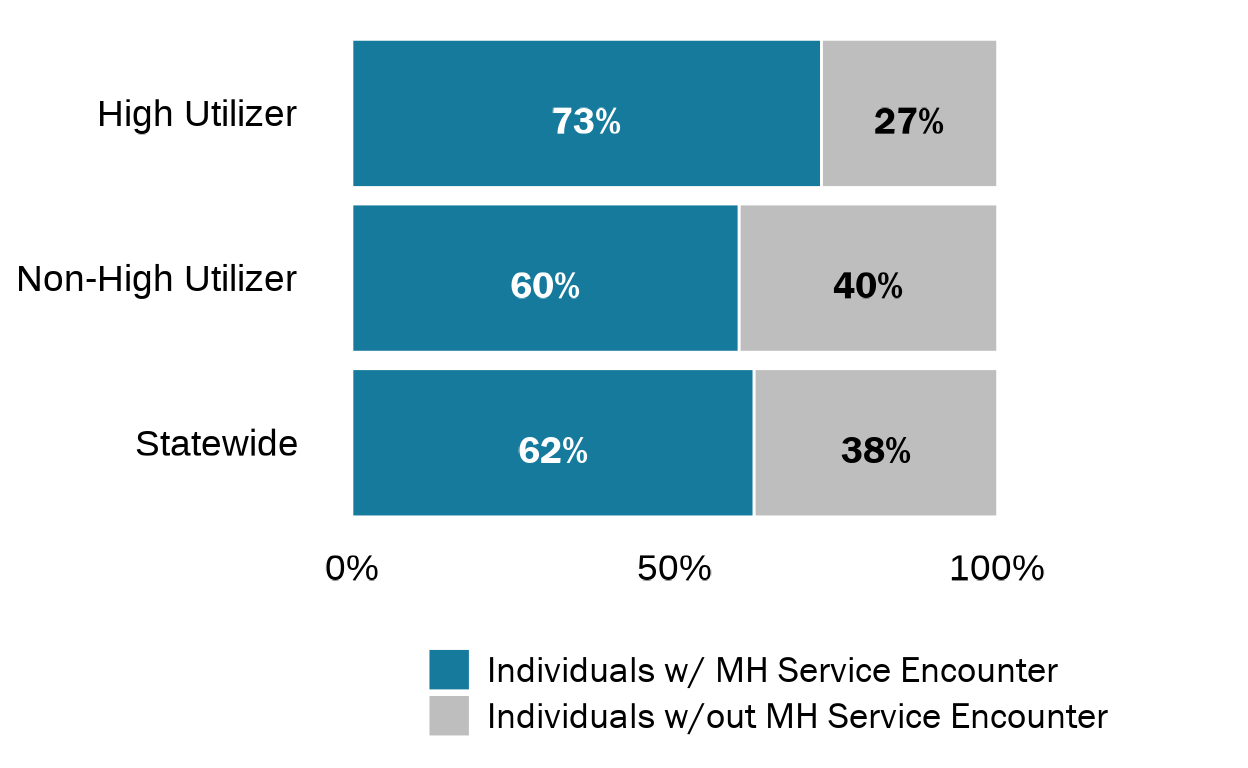
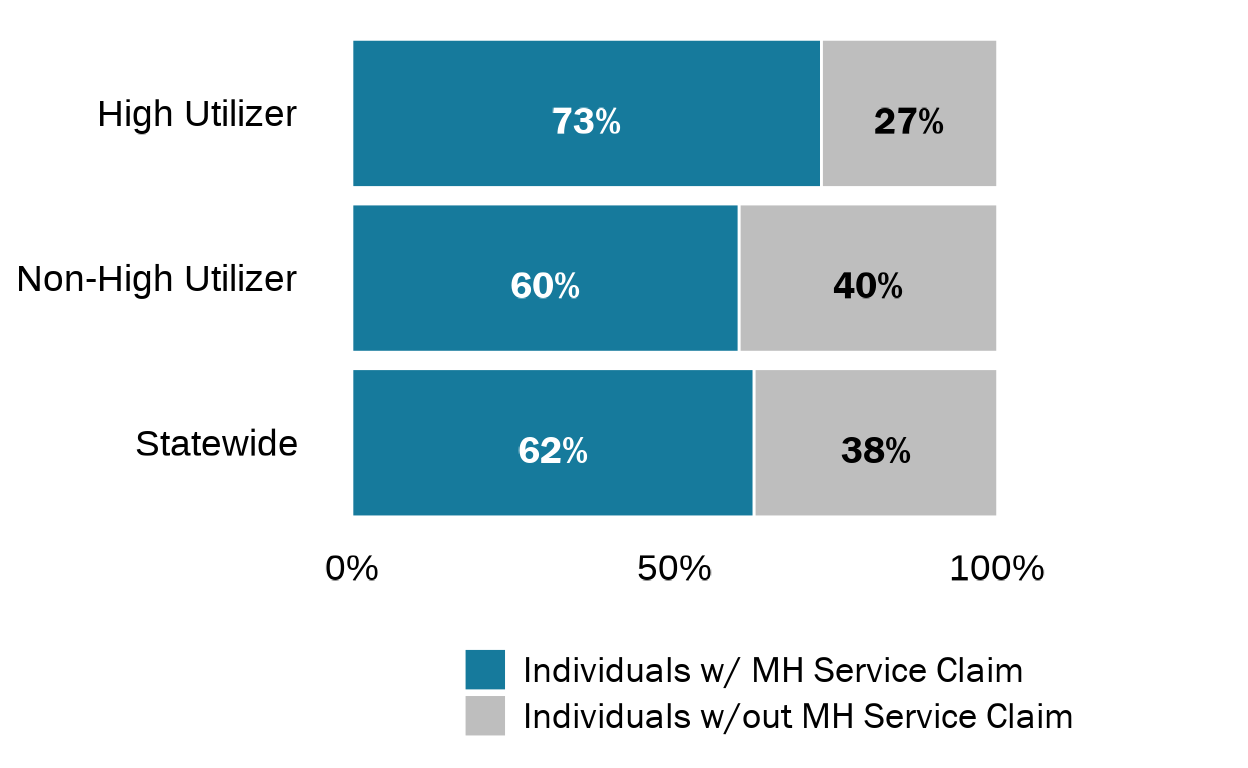
update comments and change wording from encounters to claims

Changed region(s): [[0.3438, 0.8438, 0.875, 0.9688]]

diff --git a/_site/nh_medicaid_bh_encounters_mh_sud.html b/_site/nh_medicaid_bh_encounters_mh_sud.html
@@ -2716,12 +2716,12 @@ Statewide
 </div>
 </div>
 <p><br></p>
-<p><strong>Mental Health Encounters</strong></p>
+<p><strong>Mental Health Claims</strong></p>
 <div class="layout-chunk" data-layout="l-body">
 <p><img src="nh_medicaid_bh_encounters_mh_sud_files/figure-html5/unnamed-chunk-3-1.png" width="624" /></p>
 </div>
 <p><br></p>
-<p><strong>Substance Use Disorder Encounters</strong></p>
+<p><strong>Substance Use Disorder Claims</strong></p>
 <div class="layout-chunk" data-layout="l-body">
 <p><img src="nh_medicaid_bh_encounters_mh_sud_files/figure-html5/unnamed-chunk-4-1.png" width="624" /></p>
 </div>
@@ -3420,10 +3420,16 @@ Statewide
 <div class="layout-chunk" data-layout="l-body">
 <p><img src="nh_medicaid_bh_encounters_mh_sud_files/figure-html5/unnamed-chunk-28-1.png" width="624" /></p>
 </div>
+<div class="layout-chunk" data-layout="l-body">
+<p><img src="nh_medicaid_bh_encounters_mh_sud_files/figure-html5/unnamed-chunk-29-1.png" width="624" /></p>
+</div>
 <p><br><br></p>
 <h3 id="primary-diagnosis-for-alcohol-related-disorders-medicaid-claims-between-fy2019-2021.">Primary diagnosis for “alcohol-related disorders” Medicaid claims between FY2019-2021.</h3>
 <div class="layout-chunk" data-layout="l-body">
-<p><img src="nh_medicaid_bh_encounters_mh_sud_files/figure-html5/unnamed-chunk-29-1.png" width="624" /></p>
+<p><img src="nh_medicaid_bh_encounters_mh_sud_files/figure-html5/unnamed-chunk-30-1.png" width="624" /></p>
+</div>
+<div class="layout-chunk" data-layout="l-body">
+<p><img src="nh_medicaid_bh_encounters_mh_sud_files/figure-html5/unnamed-chunk-31-1.png" width="624" /></p>
 </div>
 <p><br><br></p>
 <p><strong>See full notes and business rules for variable creation in data dictionary for individual-level analytic file here: <a href="https://csgorg.sharepoint.com/:x:/s/Team-JC-Research/EUJfEABIuNNBvKARa4Kq1nwBvSLwsK4aH7K9oZDOWxbc1w?e=zLytTB" class="uri">https://csgorg.sharepoint.com/:x:/s/Team-JC-Research/EUJfEABIuNNBvKARa4Kq1nwBvSLwsK4aH7K9oZDOWxbc1w?e=zLytTB</a></strong></p>
